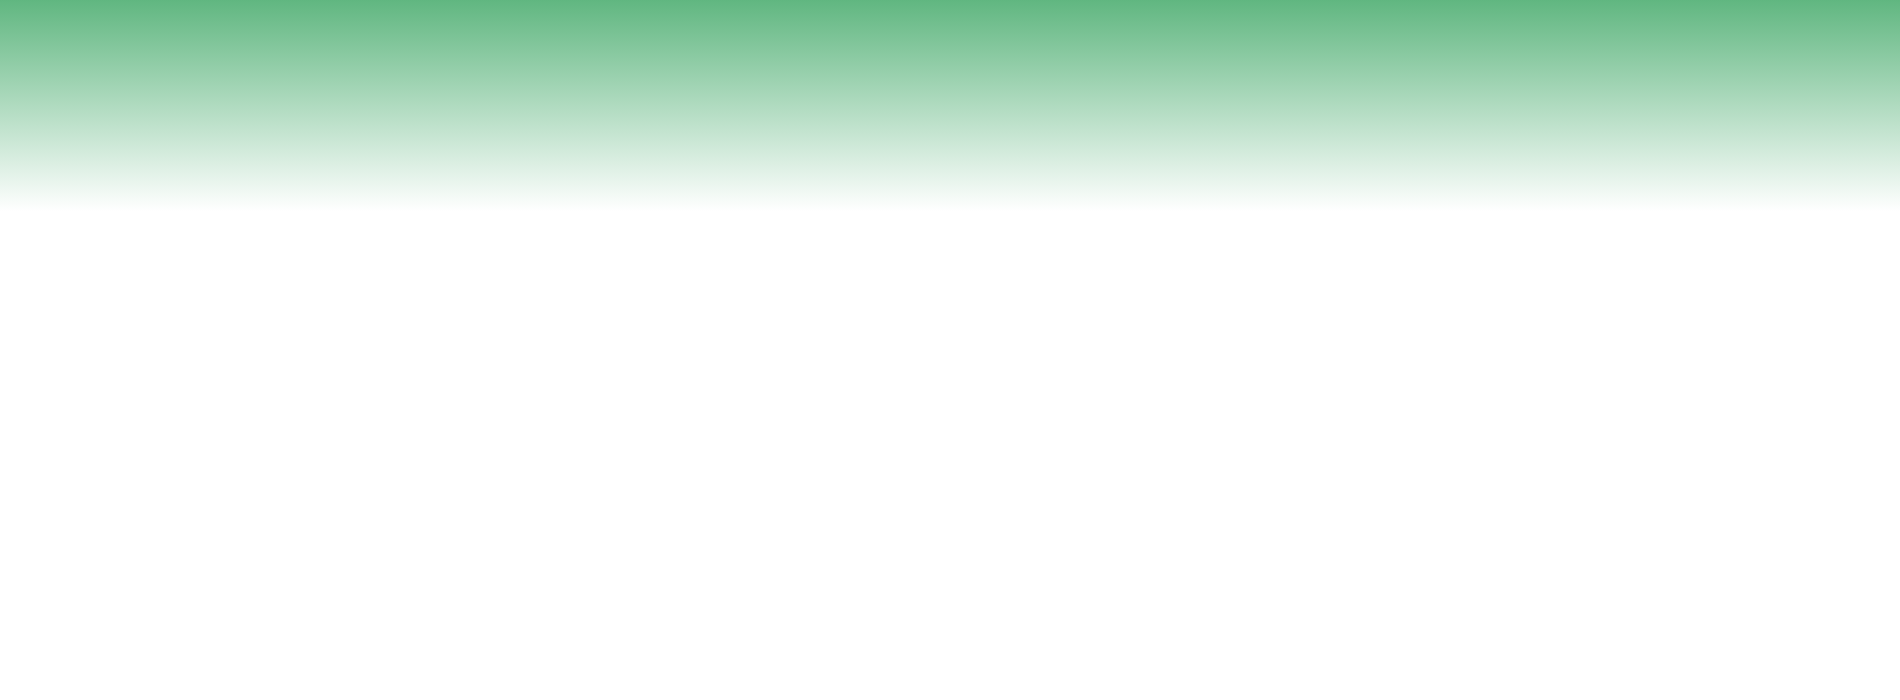
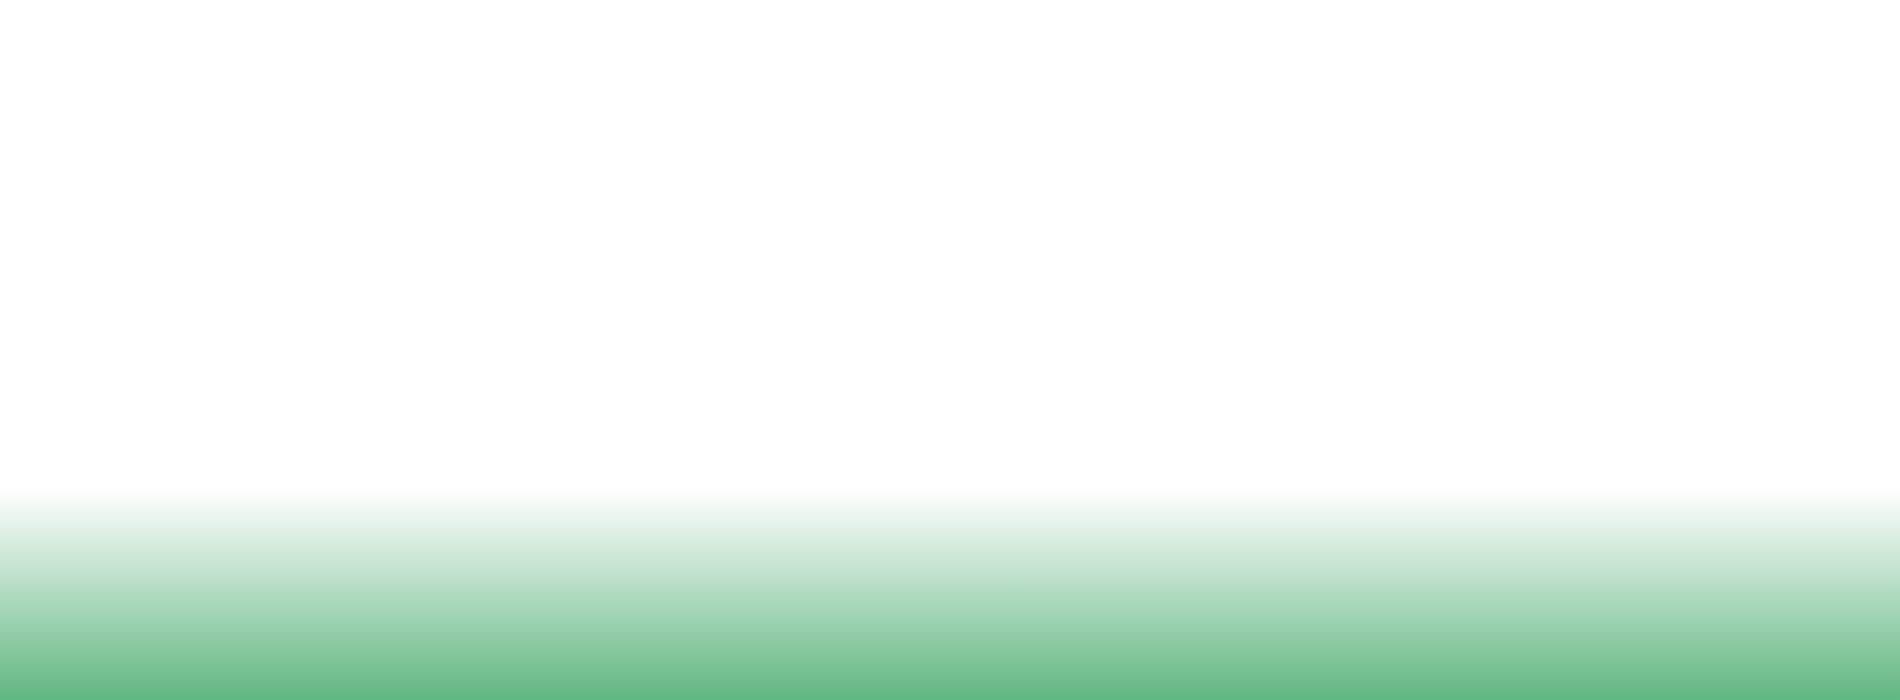
feat: add new services section and update assets
- Introduced a new JavaScript file for the services section with dynamic content rendering.
- Updated various HTML files to reference new JavaScript and CSS assets.
- Replaced hardcoded color values with theme constants for better maintainability.
- Added a new theme.js file to manage brand colors.
- Updated CSS variables to reflect the new brand palette.
- Updated binary image assets for consistency.

diff --git a/styles.css b/styles.css
@@ -4,15 +4,26 @@
 */
 
 :root {
-  /* Bootstrap Italia institutional palette */
-  --bi-primary: #0066cc; /* Blu Italia */
-  --bi-primary-800: #004080;
-  --bi-primary-100: #d2e6f9;
-  --bi-primary-050: #edf4fc;
+  /* ── Brand palette — unica fonte di verità ──────────────────────────── */
+  --brand-primary:       #50639d;
+  --brand-primary-800:   #3d4e7a;
+  --brand-primary-100:   #d0d7ea;
+  --brand-primary-050:   #eaecf5;
 
-  --bi-teal: #50639d;
-  --bi-teal-700: #3d4e7a;
-  --bi-teal-100: #d0d7ea;
+  --brand-secondary:       #52b075;
+  --brand-secondary-800:   #3a7d52;
+  --brand-secondary-100:   #c5e8d2;
+  --brand-secondary-050:   #e2f4e9;
+
+  /* Bootstrap Italia overrides — referenziano il brand palette */
+  --bi-primary:     var(--brand-primary);
+  --bi-primary-800: var(--brand-primary-800);
+  --bi-primary-100: var(--brand-primary-100);
+  --bi-primary-050: var(--brand-primary-050);
+
+  --bi-teal:     var(--brand-secondary);
+  --bi-teal-700: var(--brand-secondary-800);
+  --bi-teal-100: var(--brand-secondary-100);
 
   --bi-warm: #d14900; /* warm accent for priority CTAs */
   --bi-warm-100: #fbe8dc;

diff --git a/src/component/MapView.jsx b/src/component/MapView.jsx
@@ -5,12 +5,13 @@ import { useEffect, useRef, useState } from 'react';
 import { useResponsive } from '../hooks/useResponsive.js';
 import { Icon } from '../icons.jsx';
 import { BoundaryLayer } from './BoundaryLayer.jsx';
+import { BRAND_SECONDARY } from '../theme.js';
 
 const INITIAL_CENTER = [40.74, 14.43];
 const INITIAL_ZOOM = 11;
 
 const createMarkerIcon = (isPS) => {
-  const bg = isPS ? '#d14900' : '#52b075';
+  const bg = isPS ? '#d14900' : BRAND_SECONDARY;
   return L.divIcon({
     html: `<div style="width:36px;height:36px;border-radius:50%;background:${bg};display:flex;align-items:center;justify-content:center;box-shadow:0 2px 8px rgba(0,0,0,.35);border:2.5px solid rgba(255,255,255,.8)">
       <svg width="17" height="17" viewBox="0 0 24 24" fill="none" stroke="white" stroke-width="2.5" stroke-linecap="round" stroke-linejoin="round">
@@ -131,16 +132,16 @@ const MapView = ({ ospedali }) => {
             Pronto Soccorso 24/7
           </div>
           <div style={{ display: 'flex', alignItems: 'center', gap: 7 }}>
-            <span style={{ width: 12, height: 12, borderRadius: '50%', background: '#52b075', flexShrink: 0, display: 'inline-block' }} />
+            <span style={{ width: 12, height: 12, borderRadius: '50%', background: 'var(--brand-secondary)', flexShrink: 0, display: 'inline-block' }} />
             Presidio Ospedaliero
           </div>
           <div style={{ borderTop: '1px solid rgba(0,0,0,0.1)', marginTop: 4, paddingTop: 4 }}>
             <div style={{ display: 'flex', alignItems: 'center', gap: 7 }}>
-              <span style={{ width: 14, height: 3, background: '#50639d', flexShrink: 0, display: 'inline-block', borderRadius: 1 }} />
+              <span style={{ width: 14, height: 3, background: 'var(--brand-primary)', flexShrink: 0, display: 'inline-block', borderRadius: 1 }} />
               ASL Napoli 3 Sud
             </div>
             <div style={{ display: 'flex', alignItems: 'center', gap: 7 }}>
-              <span style={{ width: 14, height: 2, background: '#52b075', flexShrink: 0, display: 'inline-block', borderRadius: 1, opacity: 0.7 }} />
+              <span style={{ width: 14, height: 2, background: 'var(--brand-secondary)', flexShrink: 0, display: 'inline-block', borderRadius: 1, opacity: 0.7 }} />
               Regione Campania
             </div>
           </div>
@@ -207,7 +208,7 @@ const MapView = ({ ospedali }) => {
                     href={`tel:${osp.telefono.replace(/\s/g, '')}`}
                     style={{
                       fontSize: 12,
-                      color: '#52b075',
+                      color: 'var(--brand-secondary)',
                       fontWeight: 600,
                       display: 'block',
                       marginBottom: 10,
@@ -222,7 +223,7 @@ const MapView = ({ ospedali }) => {
                       style={{
                         display: 'inline-block',
                         padding: '5px 12px',
-                        background: '#52b075',
+                        background: 'var(--brand-secondary)',
                         color: '#fff',
                         borderRadius: 6,
                         fontSize: 12,
@@ -313,8 +314,8 @@ const MapView = ({ ospedali }) => {
                 height: 36,
                 borderRadius: 8,
                 flexShrink: 0,
-                background: osp.ps ? 'var(--bi-warm-100)' : 'var(--bi-primary-050)',
-                color: osp.ps ? 'var(--bi-warm)' : 'var(--bi-primary)',
+                background: osp.ps ? 'var(--bi-warm-100)' : 'var(--brand-secondary-050)',
+                color: osp.ps ? 'var(--bi-warm)' : 'var(--brand-secondary)',
                 display: 'flex',
                 alignItems: 'center',
                 justifyContent: 'center',

diff --git a/index.html b/index.html
@@ -12,16 +12,7 @@
 <body>
 <div id="root"></div>
 
-<script>
 (function(){
-  var p={primary:"#52b075",primary800:"#3a7d52",primary100:"#c5e8d2",primary050:"#e2f4e9"};
-  var r=document.documentElement.style;
-  r.setProperty("--bi-primary",p.primary);
-  r.setProperty("--bi-primary-800",p.primary800);
-  r.setProperty("--bi-primary-100",p.primary100);
-  r.setProperty("--bi-primary-050",p.primary050);
-})();
-</script>
 
 <script type="module" src="/src/main.jsx"></script>
 </body>

diff --git a/page-come-fare-per.html b/page-come-fare-per.html
@@ -12,16 +12,7 @@
 <body>
 <div id="root"></div>
 
-<script>
 (function(){
-  var p={primary:"#52b075",primary800:"#3a7d52",primary100:"#c5e8d2",primary050:"#e2f4e9"};
-  var r=document.documentElement.style;
-  r.setProperty("--bi-primary",p.primary);
-  r.setProperty("--bi-primary-800",p.primary800);
-  r.setProperty("--bi-primary-100",p.primary100);
-  r.setProperty("--bi-primary-050",p.primary050);
-})();
-</script>
 
 <script type="module" src="/src/main-come-fare-per.jsx"></script>
 </body>

diff --git a/page-maresca.html b/page-maresca.html
@@ -12,16 +12,7 @@
 <body>
 <div id="root"></div>
 
-<script>
 (function(){
-  var p={primary:"#52b075",primary800:"#3a7d52",primary100:"#c5e8d2",primary050:"#e2f4e9"};
-  var r=document.documentElement.style;
-  r.setProperty("--bi-primary",p.primary);
-  r.setProperty("--bi-primary-800",p.primary800);
-  r.setProperty("--bi-primary-100",p.primary100);
-  r.setProperty("--bi-primary-050",p.primary050);
-})();
-</script>
 
 <script type="module" src="/src/main-maresca.jsx"></script>
 </body>

diff --git a/page-ospedali.html b/page-ospedali.html
@@ -12,16 +12,7 @@
 <body>
 <div id="root"></div>
 
-<script>
 (function(){
-  var p={primary:"#52b075",primary800:"#3a7d52",primary100:"#c5e8d2",primary050:"#e2f4e9"};
-  var r=document.documentElement.style;
-  r.setProperty("--bi-primary",p.primary);
-  r.setProperty("--bi-primary-800",p.primary800);
-  r.setProperty("--bi-primary-100",p.primary100);
-  r.setProperty("--bi-primary-050",p.primary050);
-})();
-</script>
 
 <script type="module" src="/src/main-ospedali.jsx"></script>
 </body>

diff --git a/page-redazione-web.html b/page-redazione-web.html
@@ -12,16 +12,7 @@
 <body>
 <div id="root"></div>
 
-<script>
 (function(){
-  var p={primary:"#52b075",primary800:"#3a7d52",primary100:"#c5e8d2",primary050:"#e2f4e9"};
-  var r=document.documentElement.style;
-  r.setProperty("--bi-primary",p.primary);
-  r.setProperty("--bi-primary-800",p.primary800);
-  r.setProperty("--bi-primary-100",p.primary100);
-  r.setProperty("--bi-primary-050",p.primary050);
-})();
-</script>
 
 <script type="module" src="/src/main-redazione-web.jsx"></script>
 </body>

diff --git a/page-referti.html b/page-referti.html
@@ -12,16 +12,7 @@
 <body>
 <div id="root"></div>
 
-<script>
 (function(){
-  var p={primary:"#52b075",primary800:"#3a7d52",primary100:"#c5e8d2",primary050:"#e2f4e9"};
-  var r=document.documentElement.style;
-  r.setProperty("--bi-primary",p.primary);
-  r.setProperty("--bi-primary-800",p.primary800);
-  r.setProperty("--bi-primary-100",p.primary100);
-  r.setProperty("--bi-primary-050",p.primary050);
-})();
-</script>
 
 <script type="module" src="/src/main-referti.jsx"></script>
 </body>

diff --git a/page-servizi.html b/page-servizi.html
@@ -12,16 +12,7 @@
 <body>
 <div id="root"></div>
 
-<script>
 (function(){
-  var p={primary:"#52b075",primary800:"#3a7d52",primary100:"#c5e8d2",primary050:"#e2f4e9"};
-  var r=document.documentElement.style;
-  r.setProperty("--bi-primary",p.primary);
-  r.setProperty("--bi-primary-800",p.primary800);
-  r.setProperty("--bi-primary-100",p.primary100);
-  r.setProperty("--bi-primary-050",p.primary050);
-})();
-</script>
 
 <script type="module" src="/src/main-servizi.jsx"></script>
 </body>

diff --git a/src/component/BoundaryLayer.jsx b/src/component/BoundaryLayer.jsx
@@ -1,20 +1,21 @@
 import { useEffect, useState } from 'react';
 import { GeoJSON } from 'react-leaflet';
+import { BRAND_PRIMARY, BRAND_SECONDARY } from '../theme.js';
 
 const BASE = import.meta.env.BASE_URL;
 
 const campaniaStyle = {
-  color: '#52b075',
+  color: BRAND_SECONDARY,
   weight: 1.5,
   dashArray: '4 4',
-  fillColor: '#52b075',
+  fillColor: BRAND_SECONDARY,
   fillOpacity: 0.10,
 };
 
 const aslStyle = {
-  color: '#50639d',
+  color: BRAND_PRIMARY,
   weight: 2,
-  fillColor: '#50639d',
+  fillColor: BRAND_PRIMARY,
   fillOpacity: 0.20,
 };
 

diff --git a/src/component/Header.module.css b/src/component/Header.module.css
@@ -206,8 +206,8 @@
   padding: 0 18px;
   height: 40px;
   border-radius: 20px;
-  border: 1.5px solid #52b075;
-  background: #52b075;
+  border: 1.5px solid var(--brand-primary);
+  background: var(--brand-primary);
   color: #fff;
   font-size: 14px;
   font-weight: 600;
@@ -222,7 +222,7 @@
 /* ─── MainNav ────────────────────────────────────────────────────────── */
 
 .nav {
-  background: #52b075;
+  background: var(--brand-primary);
   color: #fff;
   position: relative;
   z-index: 50;
@@ -357,7 +357,7 @@
   bottom: 0;
   overflow-y: auto;
   z-index: 35;
-  background: #52b075;
+  background: var(--brand-primary);
   display: flex;
   flex-direction: column;
   gap: 10px;

diff --git a/src/theme.js b/src/theme.js
@@ -1,0 +1,8 @@
+// Costanti brand — specchiano --brand-* in styles.css.
+// Usare qui solo per contesti che non supportano CSS custom properties (es. Leaflet).
+// Per React inline styles preferire var(--brand-primary) / var(--brand-secondary).
+
+export const BRAND_PRIMARY       = '#50639d';
+export const BRAND_PRIMARY_800   = '#3d4e7a';
+export const BRAND_SECONDARY     = '#52b075';
+export const BRAND_SECONDARY_800 = '#3a7d52';